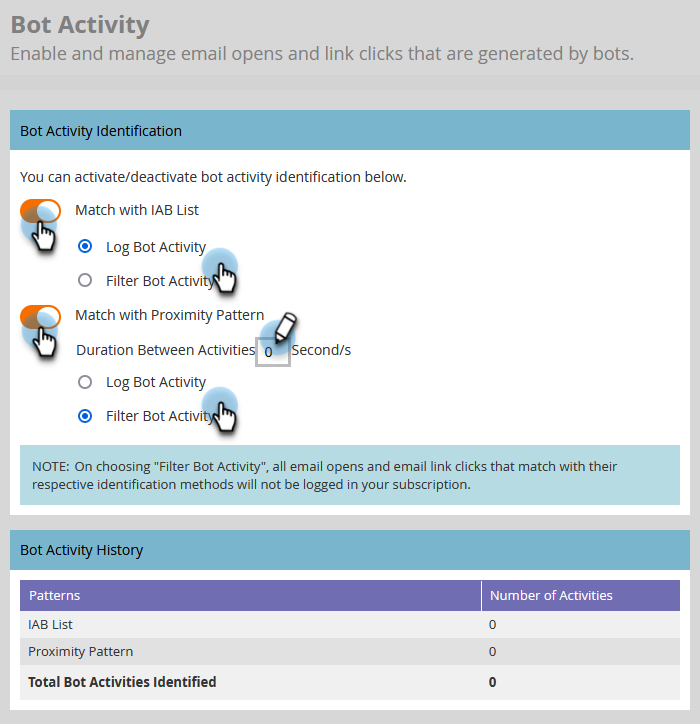
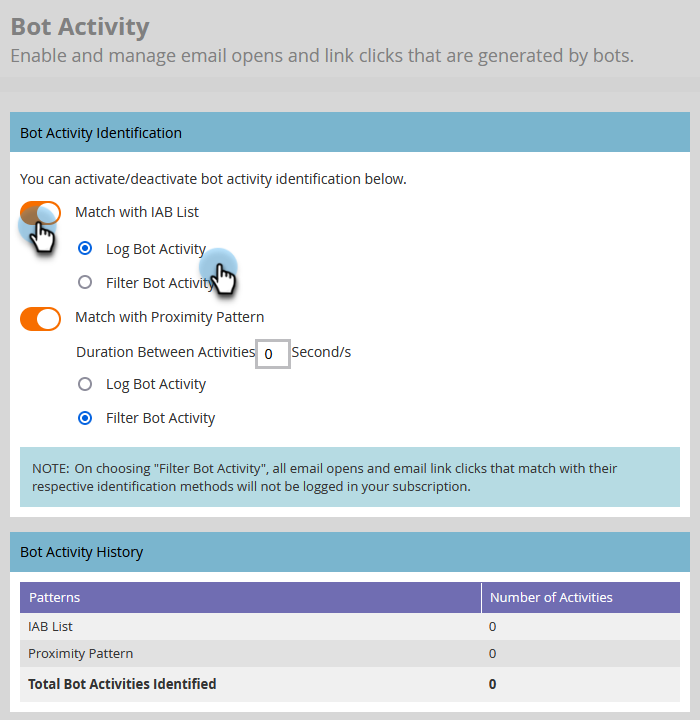
update filter bot doc

Changed region(s): [[0.0, 0.1528, 0.99, 1.0], [0.0, 0.0, 0.9, 0.0917]]

diff --git a/help/marketo/product-docs/administration/email-setup/filtering-email-bot-activity-temp.md b/help/marketo/product-docs/administration/email-setup/filtering-email-bot-activity-temp.md
@@ -38,19 +38,23 @@ Against email link click and email open activity, new attributes will be populat
 
    ![](assets/filtering-email-bot-activity-3.png)
 
-1. Choose to **[!UICONTROL Match with IAB List]**, **[!UICONTROL Match with Proximity Pattern]**, or both. Choose whether to [!UICONTROL log bot activity] _or_ [!UICONTROL filter bot activity]. Set the amount of seconds for **Duration Between Activities** from 0 to 3 seconds in length (default is 0). 
+1. There are sliders to choose from. You can enable just one or both. If you enable **[!UICONTROL Match with IAB List]**, choose whether to [!UICONTROL log bot activity] _or_ [!UICONTROL filter bot activity].
 
    ![](assets/filtering-email-bot-activity-temp-4.png)
+
+1. If you enable **[!UICONTROL Match with Proximity Pattern]**, choose whether to [!UICONTROL log bot activity] _or_ [!UICONTROL filter bot activity]. You can also set the amount of seconds for **Duration Between Activities** (default is 0, max is 3). 
+
+   ![](assets/filtering-email-bot-activity-temp-5.png)
 
 >[!NOTE]
 >
 >With **Duration Between Activities** set to 0 seconds, we will identify email activities that are happening at the exact same second. If multiple email activities happen within the designated amount of seconds, it will be identified as bot activity.
 
->[!NOTE]
+>[!IMPORTANT]
 >
 >* If you choose [!UICONTROL Filter Bot Activity], you may see a drop in email opens and clicks as false activities are weeded out.
 
-**OPTIONAL STEP**: To disable this feature, simply deselect the slider(s). If you disable, the data does not reset.
+**OPTIONAL STEP**: To disable either feature, simply deselect the resective slider. If you do, the data does not reset.
 
 >[!TIP]
 >
